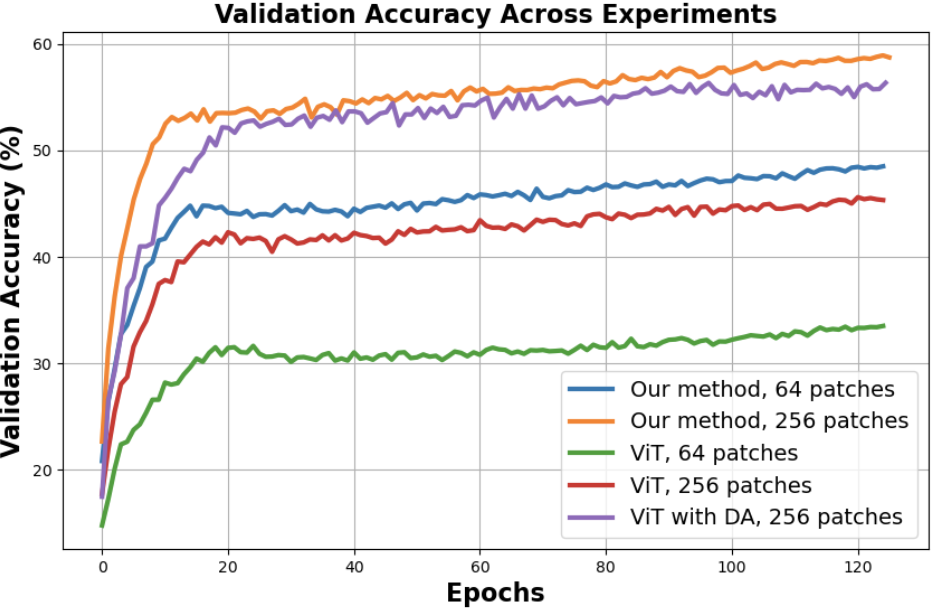
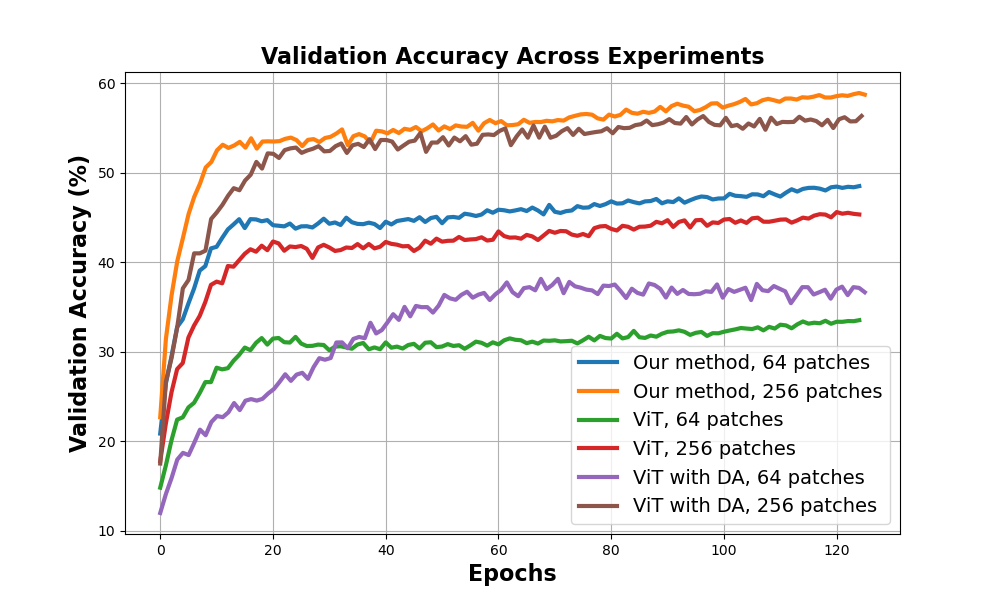
update acc_figure

Changed region(s): [[0.0, 0.0, 1.0, 0.99]]

diff --git a/README.md b/README.md
@@ -14,7 +14,8 @@ Case 1(Lafs Transformer): IMAGE_SIZE = 128, NUM_PATCHES = 64
 Case 2(Lafs Transformer): IMAGE_SIZE = 256, NUM_PATCHES = 256
 Case 3(baseline Transformer): IMAGE_SIZE = 128, NUM_PATCHES = 64
 Case 4(baseline Transformer): IMAGE_SIZE = 256, NUM_PATCHES = 256
-Case 5(baseline Transformer with data augmentation): IMAGE_SIZE = 256, NUM_PATCHES = 256
+Case 5(baseline Transformer with data augmentation): IMAGE_SIZE = 128, NUM_PATCHES = 64
+Case 6(baseline Transformer with data augmentation): IMAGE_SIZE = 256, NUM_PATCHES = 256
 
 ### Lafs Generation
 Run 'main/lafs/add_laf.py' file to generate the lafs for each image in the ImageNet_100 datasets. 
